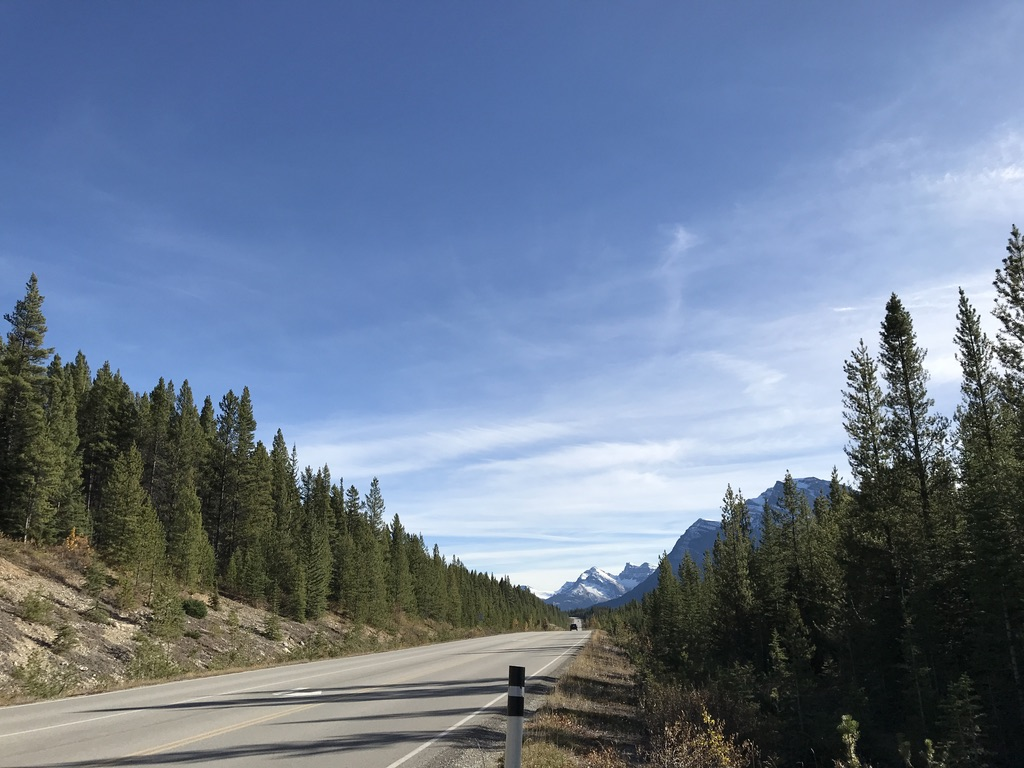
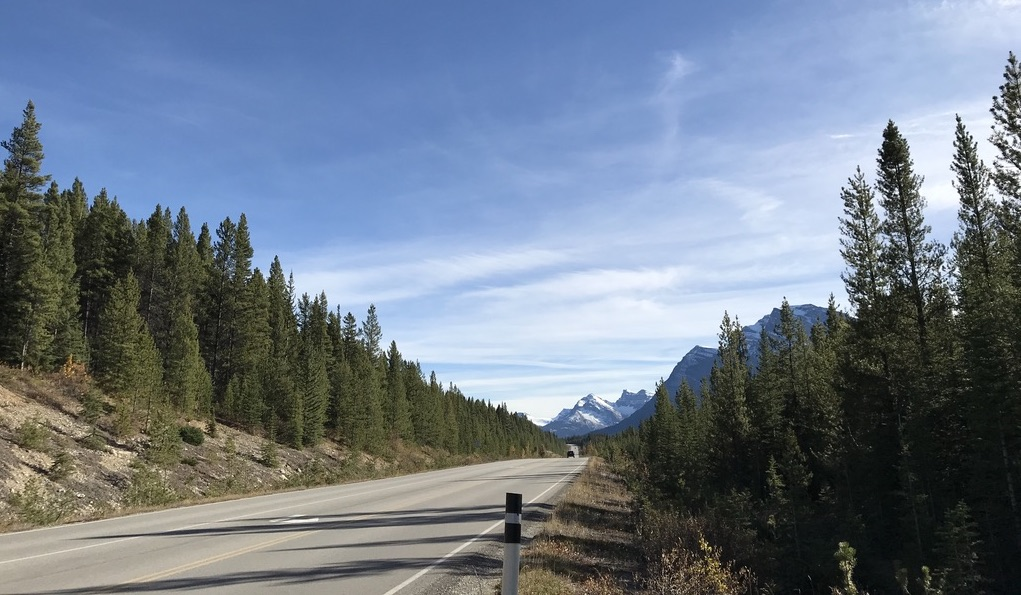
New figures

diff --git a/blog/css/clean-blog.css b/blog/css/clean-blog.css
@@ -112,7 +112,7 @@ img::-moz-selection {
 }
 
 .img-fluid-pic {
-  max-width:70%;
+  max-width:50%;
   height:auto;
 }
 
@@ -220,7 +220,7 @@ header.masthead .overlay {
 header.masthead .page-heading,
 header.masthead .post-heading,
 header.masthead .site-heading {
-  padding: 120px 0 20px;
+  padding: 200px 0 50px;
   color: white;
 }
 
@@ -237,7 +237,7 @@ header.masthead .site-heading_pic {
   header.masthead .page-heading,
   header.masthead .post-heading,
   header.masthead .site-heading {
-    padding: 120px 0 20px;
+    padding: 200px 0 50px;
   }
 }
 

diff --git a/blog/index.html b/blog/index.html
@@ -78,7 +78,7 @@
     <div class="row">
       <div class="col-lg-8 col-md-10 mx-auto">
         <div class="text-center">
-          <p><img src="img/grad.jpeg" class="img-fluid-pic" alt="Seung-seob Lee at PhD graduation ceremony"></p>
+          <p><img src="img/home_3.jpg" class="img-fluid-pic" alt="Seung-seob Lee at PhD graduation ceremony"></p>
         </div>
         <p>I am a postdoctoral associate and a part of <a href="https://www.yecl.org">Efficient Computing Lab</a> in the
           Department of Computer Science at Yale University.

diff --git a/blog/about.html b/blog/about.html
@@ -51,7 +51,7 @@
   </nav>
 
   <!-- Page Header -->
-  <header class="masthead" style="background-image: url('img/me.jpg')">
+  <header class="masthead" style="background-image: url('img/about_me.jpeg')">
     <div class="overlay"></div>
     <div class="container">
       <div class="row">
